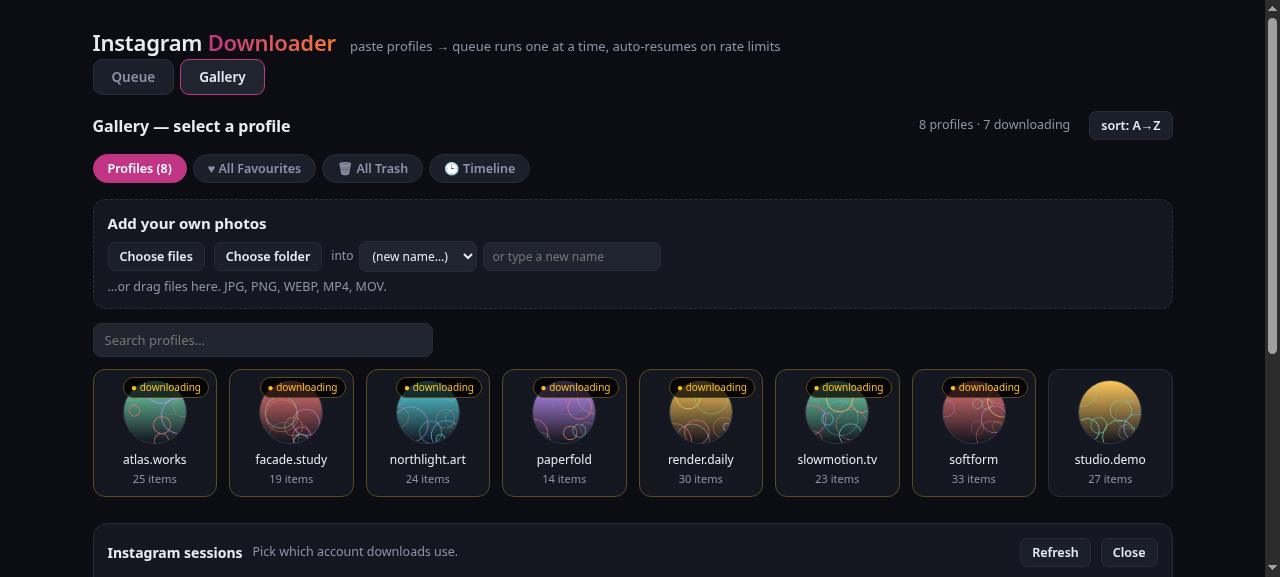
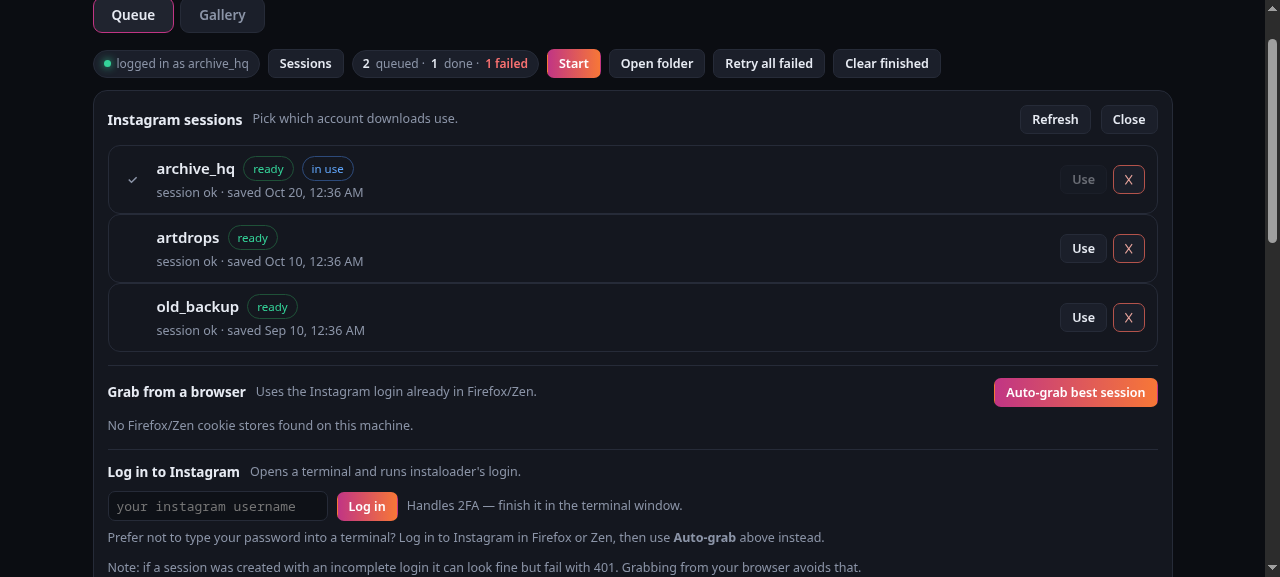
Document the sessions panel, and replace its screenshot
The panel lists every saved login with the one in use marked, and lets you switch
accounts, delete one, or re-check them. None of that was described: the README
mentioned logging in once and moved on, so the multi-account part was invisible.

The old sessions.png did not show the panel at all -- it was mostly the gallery
with the panel cut off below the fold. The replacement shows three saved sessions,
one marked in use, each with Use and delete, plus the grab-from-browser and
password sections.

New "Accounts and sessions" section covers grabbing a login from Firefox/Zen,
logging in with a password, switching accounts while a queue is running, and
copying a session file to another machine.

diff --git a/README.md b/README.md
@@ -45,10 +45,11 @@ arrow keys), favourite, download a video, or trash it.
 
 ![A post enlarged over the grid, with previous and next arrows and action buttons](docs/viewer.png)
 
-**Sessions** — log in once, either by grabbing the Instagram login already in your
-browser or by running instaloader's own login. Handles 2FA.
+**Sessions** — every saved Instagram login in one list, with the one in use marked.
+Switch accounts with one click, or grab a login out of your browser so you never
+type a password here.
 
-![The sessions panel: log in, or grab a session from Firefox or Zen](docs/sessions.png)
+![The sessions panel: three saved sessions with Use buttons, one marked in use, plus grab-from-browser and log-in options](docs/sessions.png)
 
 ---
 
@@ -72,10 +73,8 @@ First run takes ~20 seconds, mostly pip. After that it starts instantly.
 
 Then:
 
-1. **Log in** — click **Sessions** → **Auto-grab best session** picks up the
-   Instagram login already in Firefox/Zen/LibreWolf, so you never type a password
-   into this app. Or use username + password, which opens instaloader's own login
-   in a terminal.
+1. **Log in** — click **Sessions**. See [Accounts and sessions](#accounts-and-sessions)
+   below; the short version is one click to grab the login already in your browser.
 2. **Paste profiles** — one per line. `username`, `@username` and full
    `instagram.com` URLs all work.
 3. **Add to queue**, press **Start**, and leave it running.
@@ -264,6 +263,62 @@ box. Every field's tooltip shows the underlying instaloader flag.
 | Reels | off | Adds a separate reels-only pass per profile |
 
 ---
+
+## Accounts and sessions
+
+Instaloader talks to Instagram through a saved login ("session"). This app manages
+those for you, so you never paste a password into it.
+
+Click **Sessions** to open the panel. Every saved login is listed with the account
+name, whether it still works, and when it was saved. The one currently in use is
+marked **in use**.
+
+### Grabbing a login from your browser
+
+The easiest way, and the one to try first:
+
+1. Log in to Instagram **in Firefox, Zen or LibreWolf** as usual.
+2. Click **Sessions** → **Auto-grab best session**.
+
+It reads the login cookie your browser already has and saves it for instaloader.
+No password, no terminal, nothing typed into this app. If you have several, it
+picks the one that looks best and lists the rest so you can grab those too.
+
+### Logging in with a password instead
+
+If you don't keep an Instagram login in a browser, type your username in the
+**Log in to Instagram** box and press **Log in**. This opens instaloader's own
+login in a terminal window — your password goes to instaloader, never to this app.
+Two-factor codes are entered there too.
+
+### Using more than one account
+
+Everything you save stays listed, so you can keep several accounts on hand and
+switch whenever you like:
+
+- **Use** — makes that session the one downloads run as. Anything already queued
+  continues with the new account from the next profile.
+- **✕** — deletes a saved session. Nothing else is touched.
+- **Refresh** — re-checks each session, so one that expired shows as incomplete
+  rather than failing a download later.
+
+Useful when one account gets rate-limited: switch to another and keep going, while
+the first one recovers.
+
+### Moving a session to another machine
+
+A session is just a file in instaloader's config folder:
+
+```
+~/.config/instaloader/session-<username>
+```
+
+Copy that file into the same place on another computer and it appears in the panel
+as a saved session, ready to use. Treat it like a password — anyone with the file
+can post as that account.
+
+**Sessions expire eventually.** When one does, every job fails until you log in
+again. The panel shows it as incomplete instead of silently burning requests.
 
 ## Where things live
 
